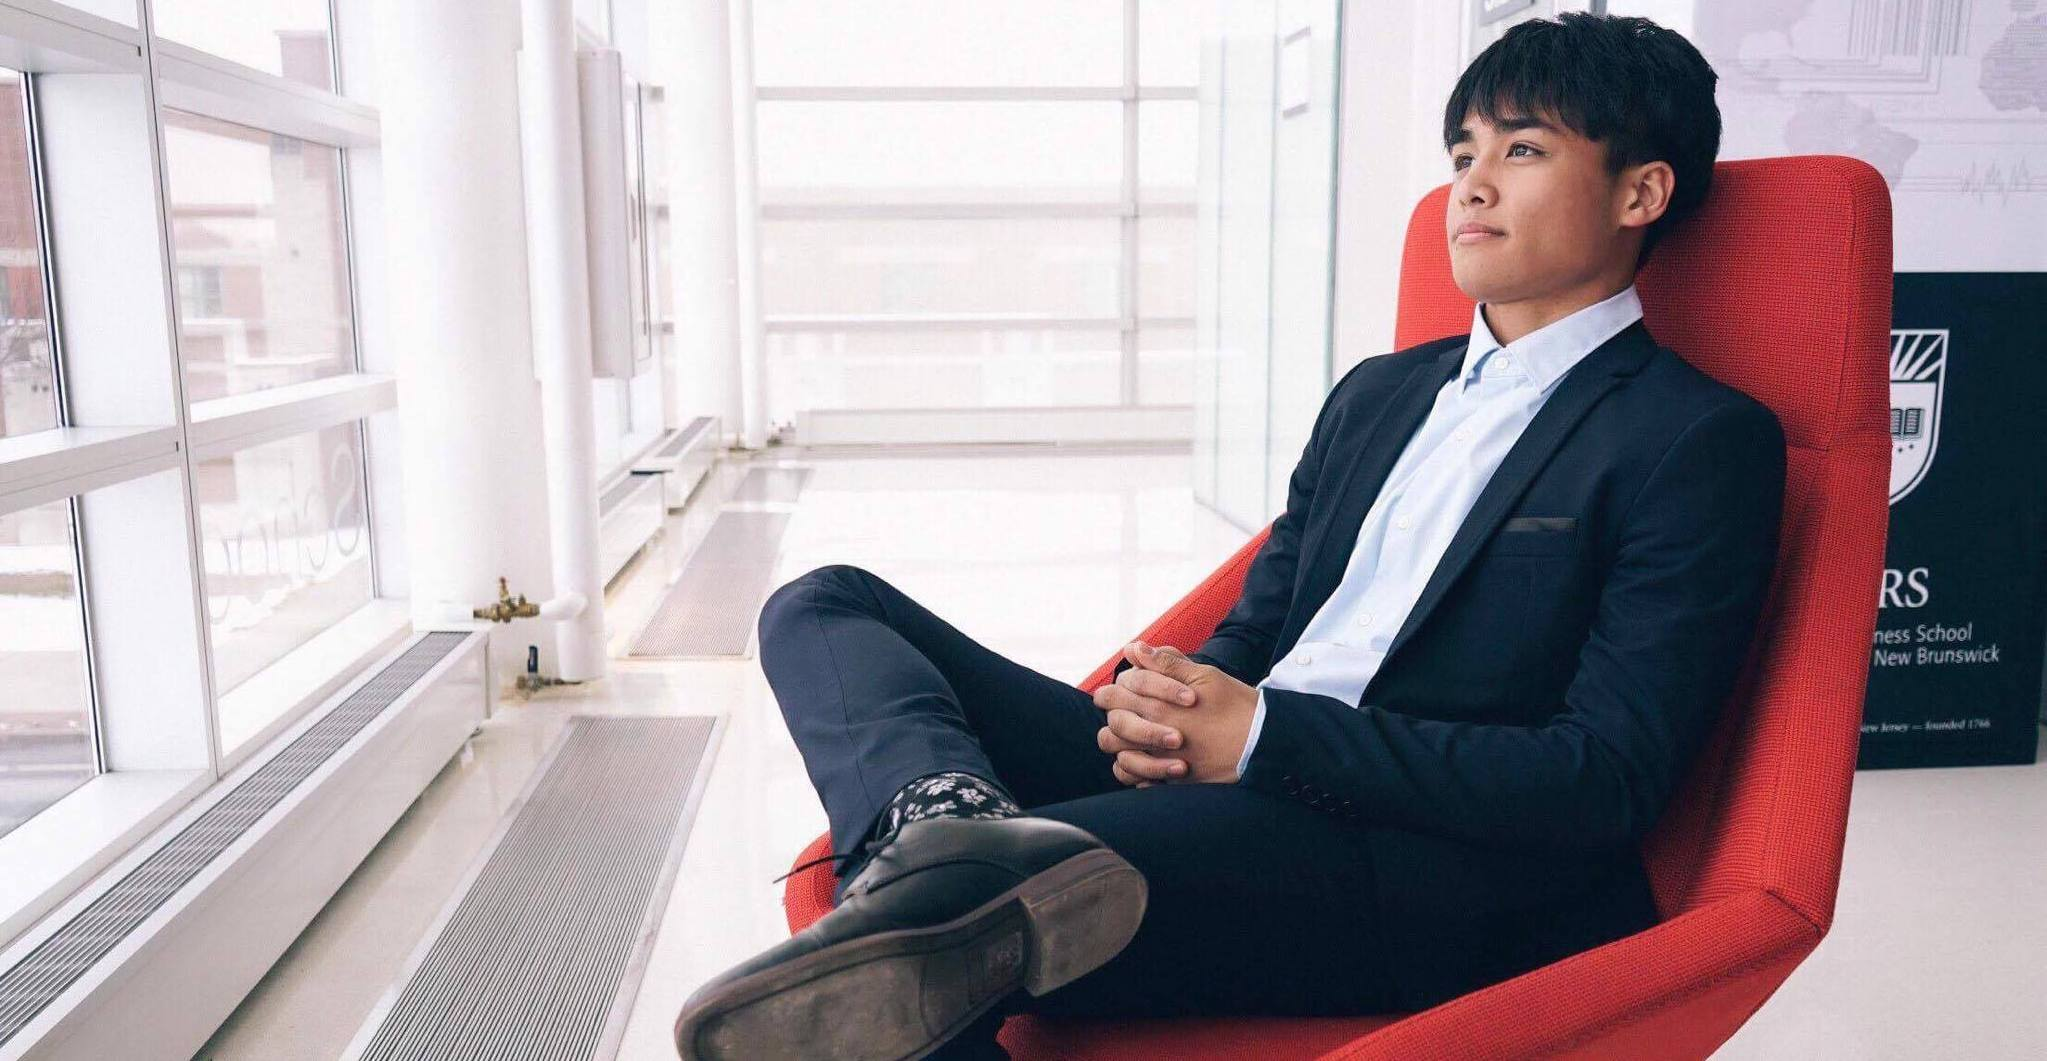
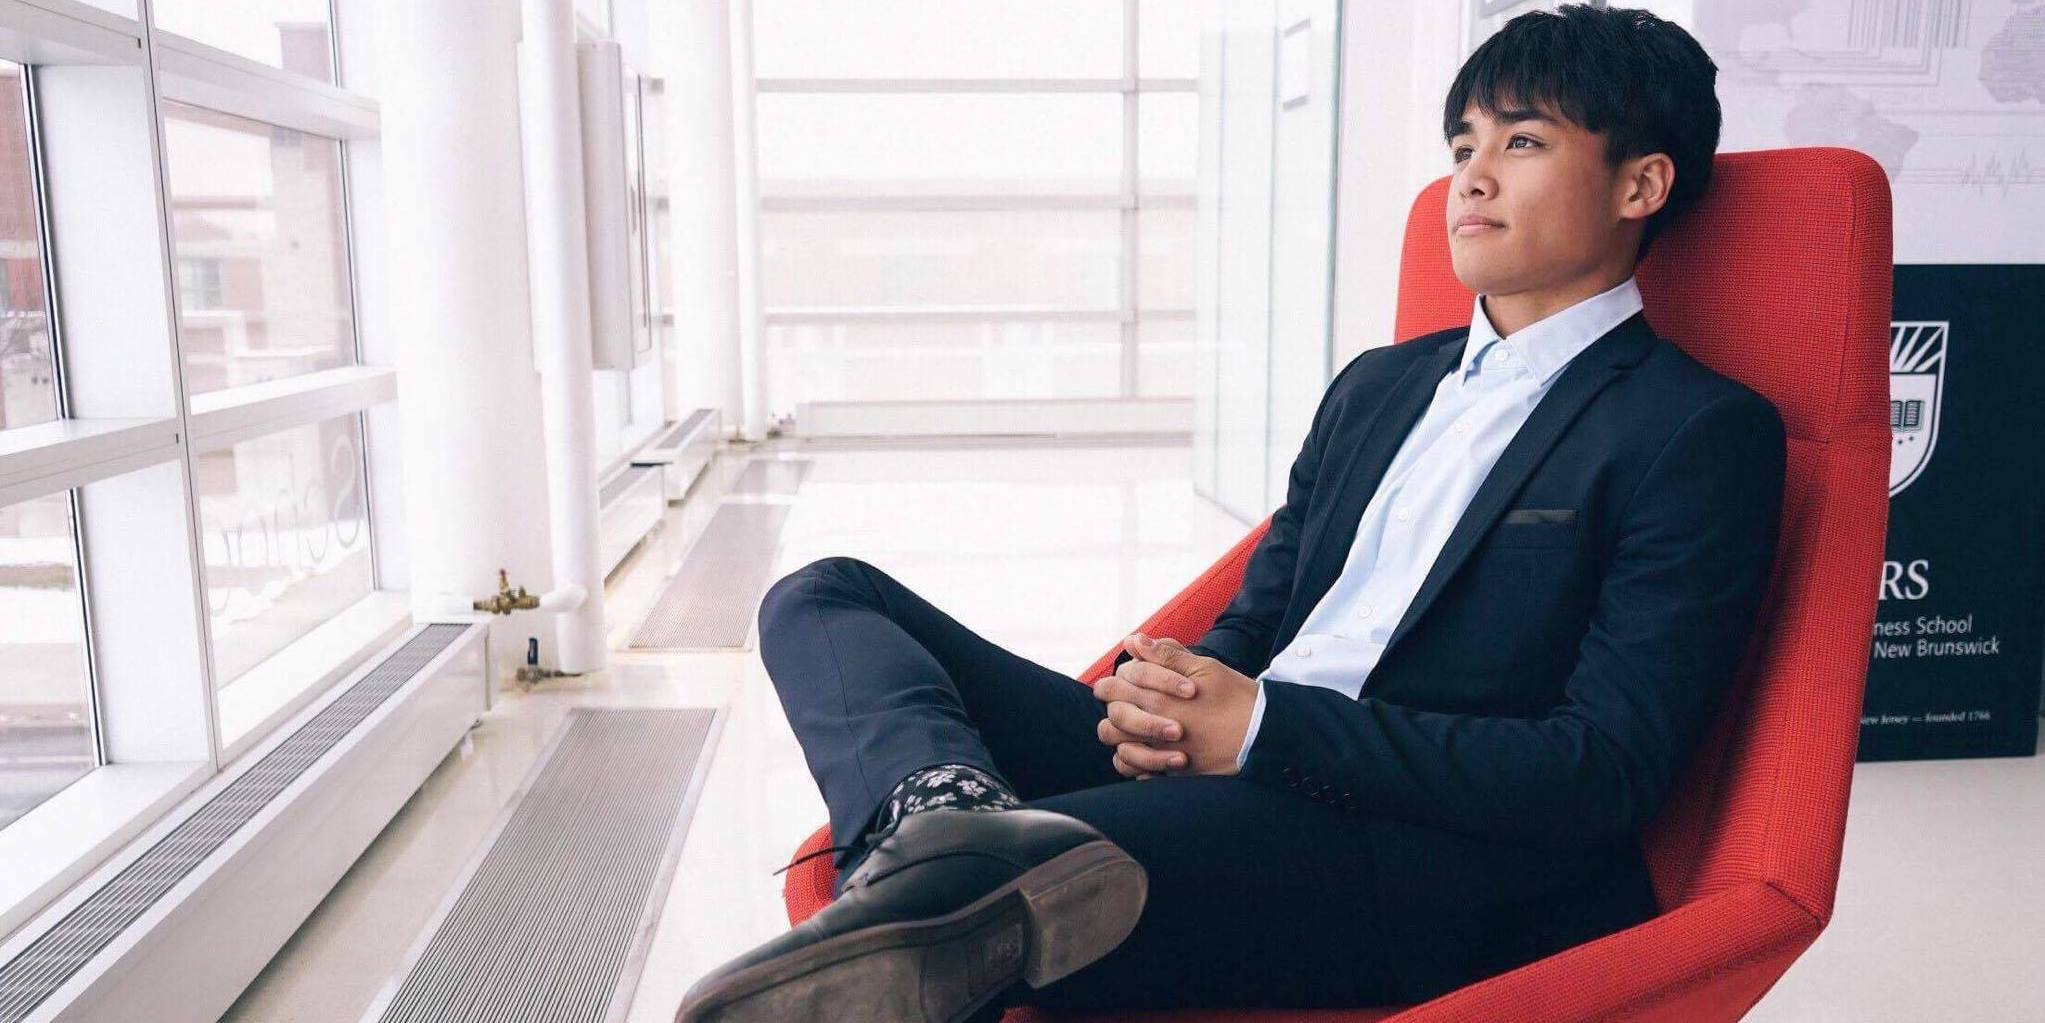
replaced chapter wars and edited some photos

diff --git a/index.html b/index.html
@@ -107,10 +107,10 @@
                                 <i class="fa fa-plus fa-3x"></i>
                             </div>
                         </div>
-                        <img src="img/portfolio/chapterwars.jpg" class="img-responsive" alt="Nu Alpha Phi National Chapter Wars">
+                        <img src="img/portfolio/chapterwars2.jpg" class="img-responsive" alt="Nu Alpha Phi National Chapter Wars">
                     </a>
                     <div class="portfolio-caption">
-                        <h4>Chapter Wars</h4>
+                        <h4>Chapter Wars 2018</h4>
                         <p class="text-muted">National Brotherhood Retreat</p>
                     </div>
                 </div>
@@ -224,7 +224,7 @@
                         <img src="img/portfolio/rushfront.jpg" class="img-responsive" alt="Spring 2018 Rush">
                     </a>
                     <div class="portfolio-caption">
-                        <h4>Rush Spring 2018!</h4>
+                        <h4>Rush Fall 2018!</h4>
                         <p class="text-muted">Join the tightest brotherhood!</p>
                     </div>
                 </div>
@@ -480,7 +480,7 @@
                                 <!-- Project Details Go Here -->
                                 <h2>Chapter Wars</h2>
                                 <p class="item-intro text-muted">National athletics event!</p>
-                                <img class="img-responsive img-centered" src="img/portfolio/warsblurb.jpg" alt="Brotherhood NYC">
+                                <img class="img-responsive img-centered" src="img/portfolio/chapterwars2.jpg" alt="Brotherhood NYC">
                                 <p>Nine will enter -- only one will leave victorious. Defend your chapter's honor through some friendly competition with the brothers of our fraternity. </p>
 
                                 <p>Every year, Nu Alpha Phi organizes a sports olympic, brother against brother in sports like softball, basketball, and volleyball between all nine chapters.  Brothers from every generation, young and old, practice to prepare themselves for this annual event.</p>
@@ -653,9 +653,9 @@
                         <div class="col-lg-8 col-lg-offset-2">
                             <div class="modal-body">
                                 <!-- Project Details Go Here -->
-                                <h2>Rush Nu Alpha Phi Spring 2018!</h2>
+                                <h2>Rush Nu Alpha Phi Fall 2018!</h2>
                                 <p class="item-intro text-muted">Naphis coming through with the free events!</p>
-                                 <img class="img-responsive img-centered" src="img/portfolio/rushdetails.jpg" alt="Spring 2018 Rush Event Schedule">
+                                 <img class="img-responsive img-centered" src="img/portfolio/rushdetails.jpg" alt="Fall 2018 Rush Event Schedule">
                                 <p>Rush is a period during the school year for students to attend a variety of events who may be interested in being a part of Greek life. Through these events held during Rush, you can learn more about our fraternity as well as to get to know our Brothers on a personal level. Rush is open to anyone from any background. We encourage you to come out to these events as this is a chance for us to get to know you on a personal level as well. All events hosted by us are FREE and non-obligatory.</p>
               
                                 <button type="button" class="btn btn-primary" data-dismiss="modal"><i class="fa fa-times"></i> Close Project</button>
